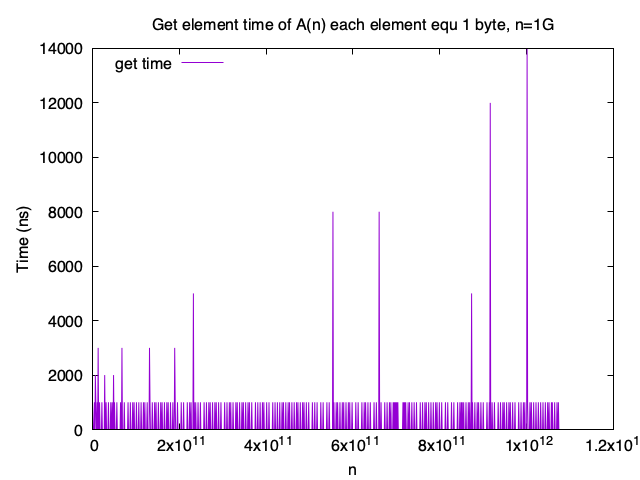
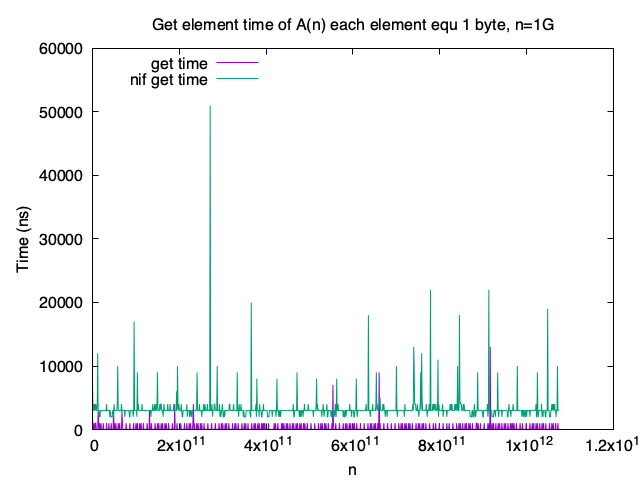
get nif

diff --git a/c_src/utils_nif.cpp b/c_src/utils_nif.cpp
@@ -81,6 +81,34 @@ update_binary(ErlNifEnv *env, int argc, const ERL_NIF_TERM argv[])
     return enif_make_binary(env, &new_data);
 }
 
+static ERL_NIF_TERM
+get_sub_binary(ErlNifEnv *env, int argc, const ERL_NIF_TERM argv[])
+{
+    ErlNifBinary data, sub_data;
+    ErlNifSInt64 i, el_size;
+    int64_t i_start;
+    int64_t i_end;
+
+    if (!enif_inspect_binary(env, argv[0], &data)) {
+        return enif_make_badarg(env);
+    }
+
+    enif_get_int64(env, argv[1], &el_size);
+    enif_get_int64(env, argv[2], &i);
+
+    i_start = i * el_size;
+    i_end = i_start + el_size;
+
+    if ((i_start<0)||(i_start>=data.size)||(i_end>data.size)) {
+        return enif_make_badarg(env);
+    }
+
+    enif_alloc_binary(el_size, &sub_data);
+    memcpy(sub_data.data, data.data + i_start, el_size);
+
+    return enif_make_binary(env, &sub_data);
+}
+
 /*
  * Load the nif. Initialize some stuff and such
  */
@@ -103,6 +131,7 @@ static ErlNifFunc nif_funcs[] = {
     {"make_binary", 1, make_binary},
     {"dirty_update_binary", 3, dirty_update_binary},
     {"update_binary", 3, update_binary},
+    {"get_sub_binary", 3, get_sub_binary},
 };
 
 ERL_NIF_INIT(Elixir.UtilsNif, nif_funcs, on_load, on_reload, on_upgrade, NULL)
